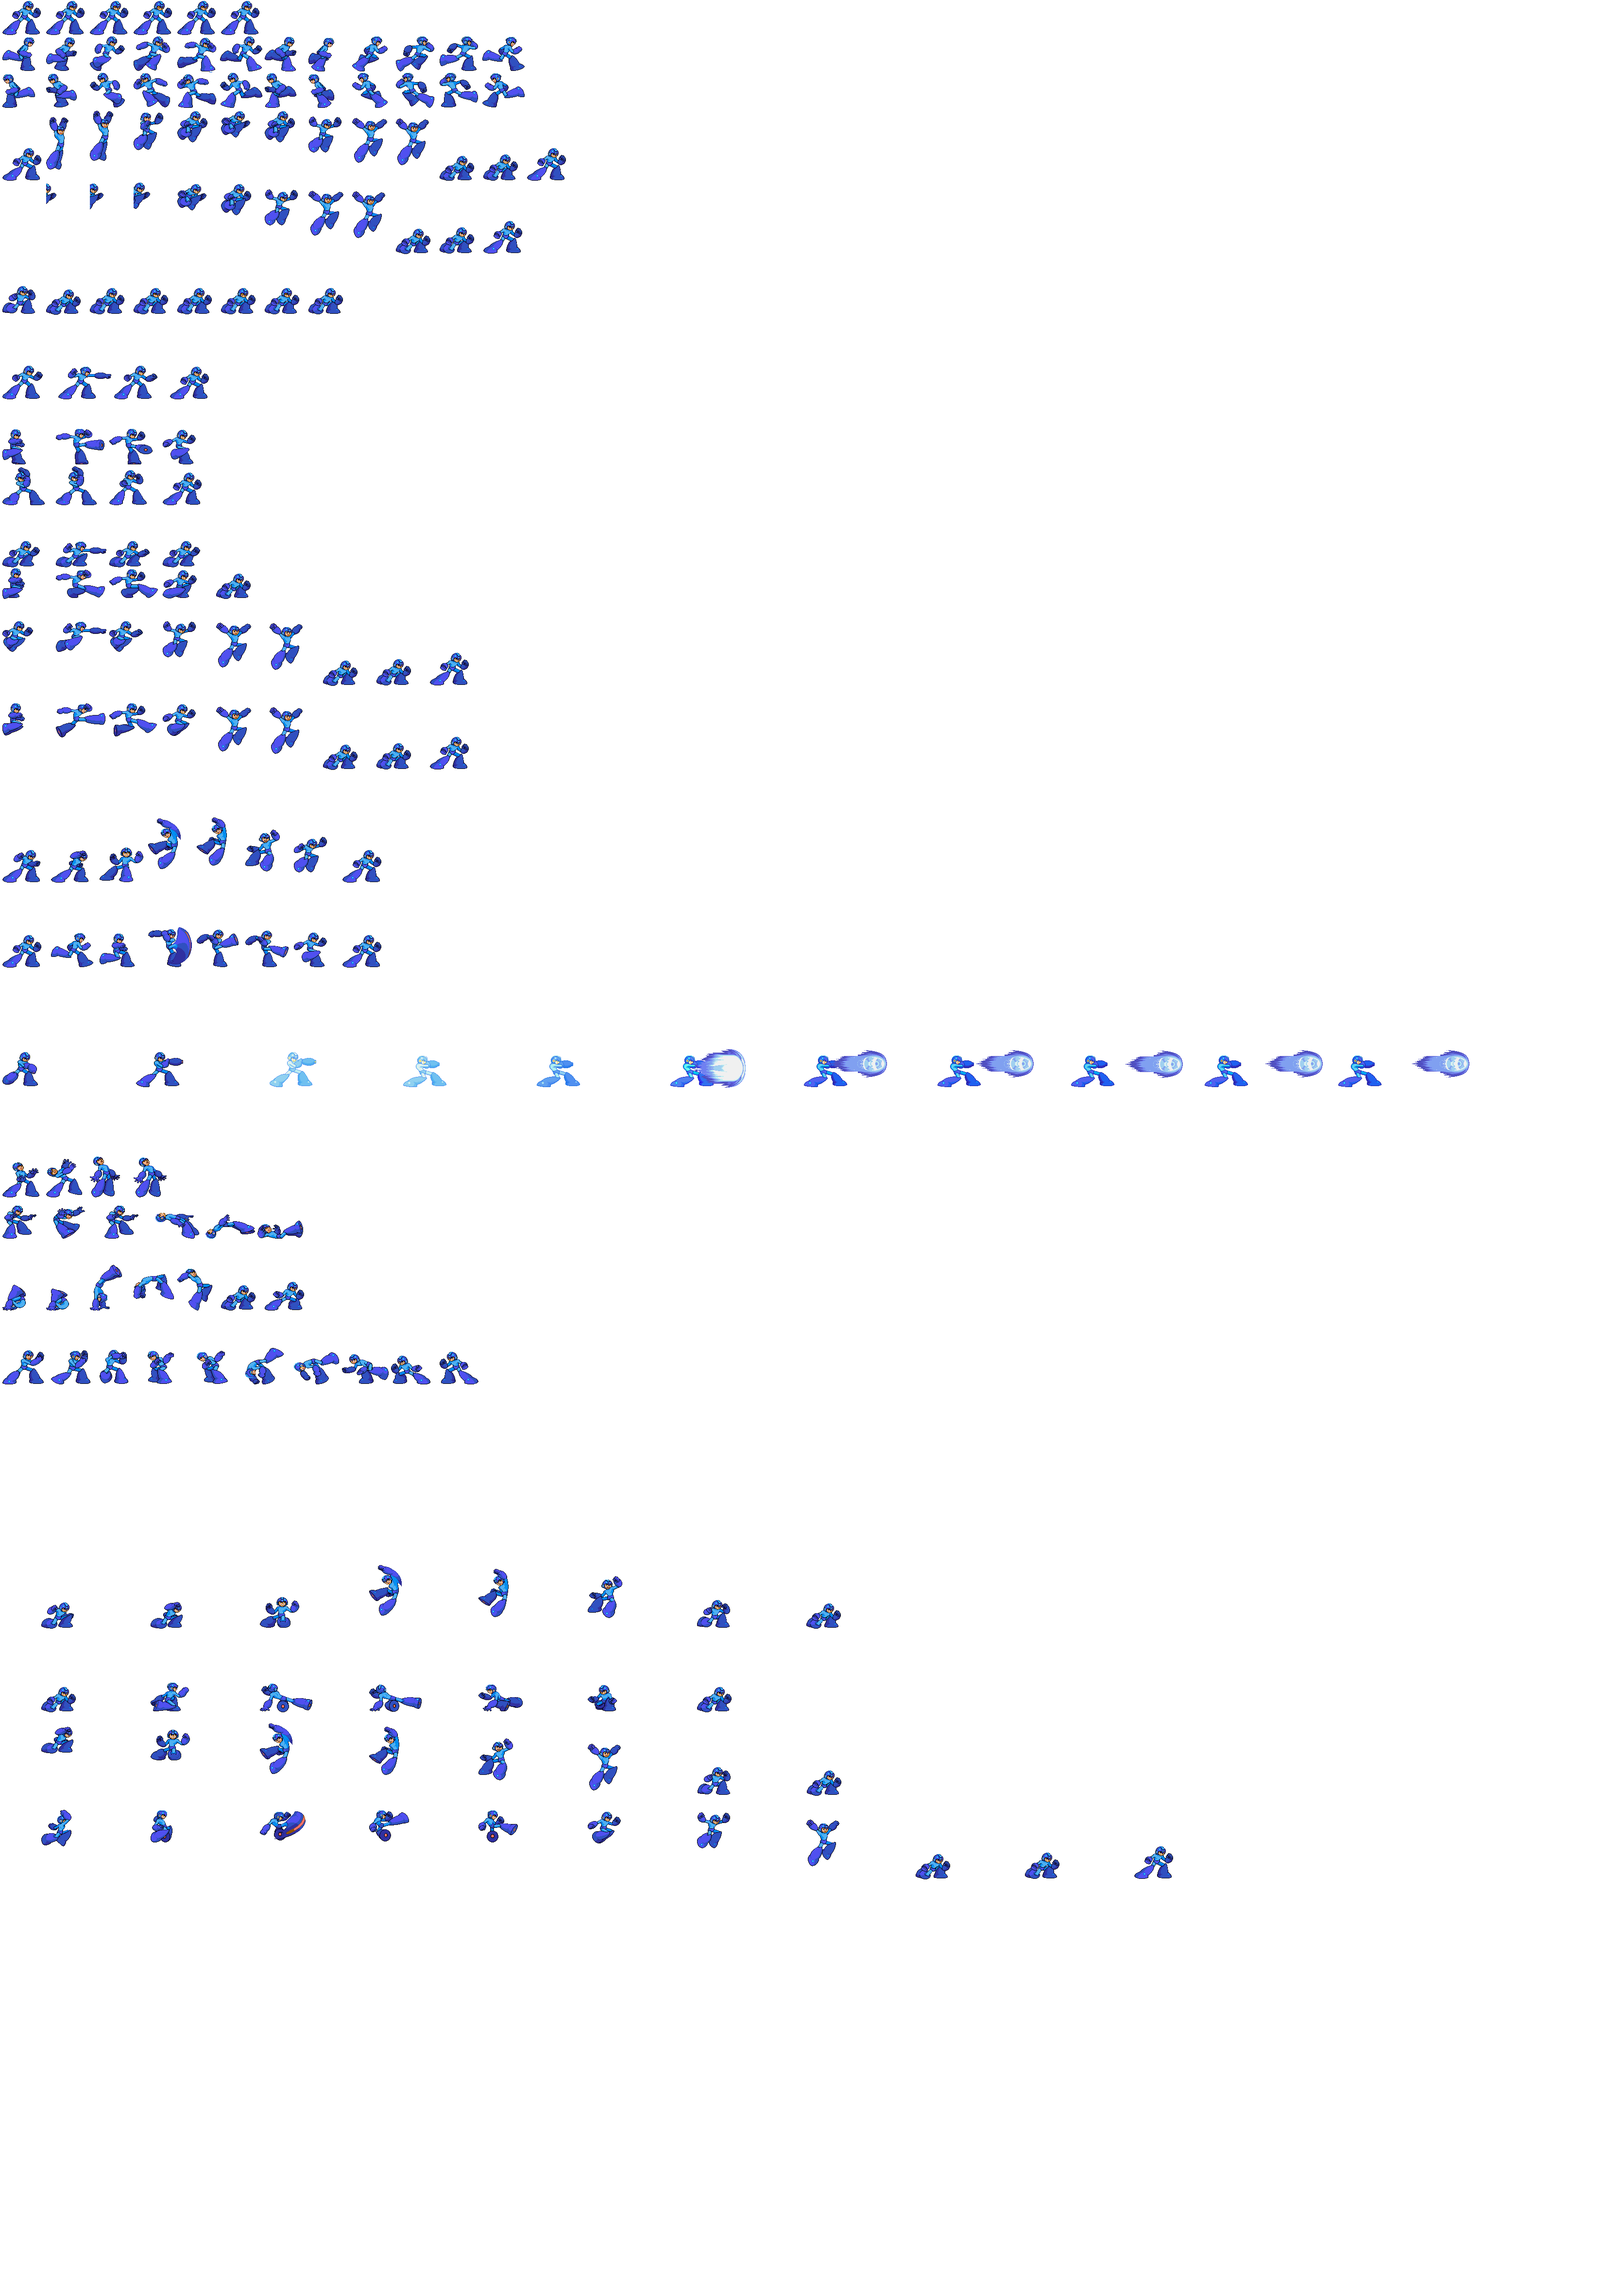
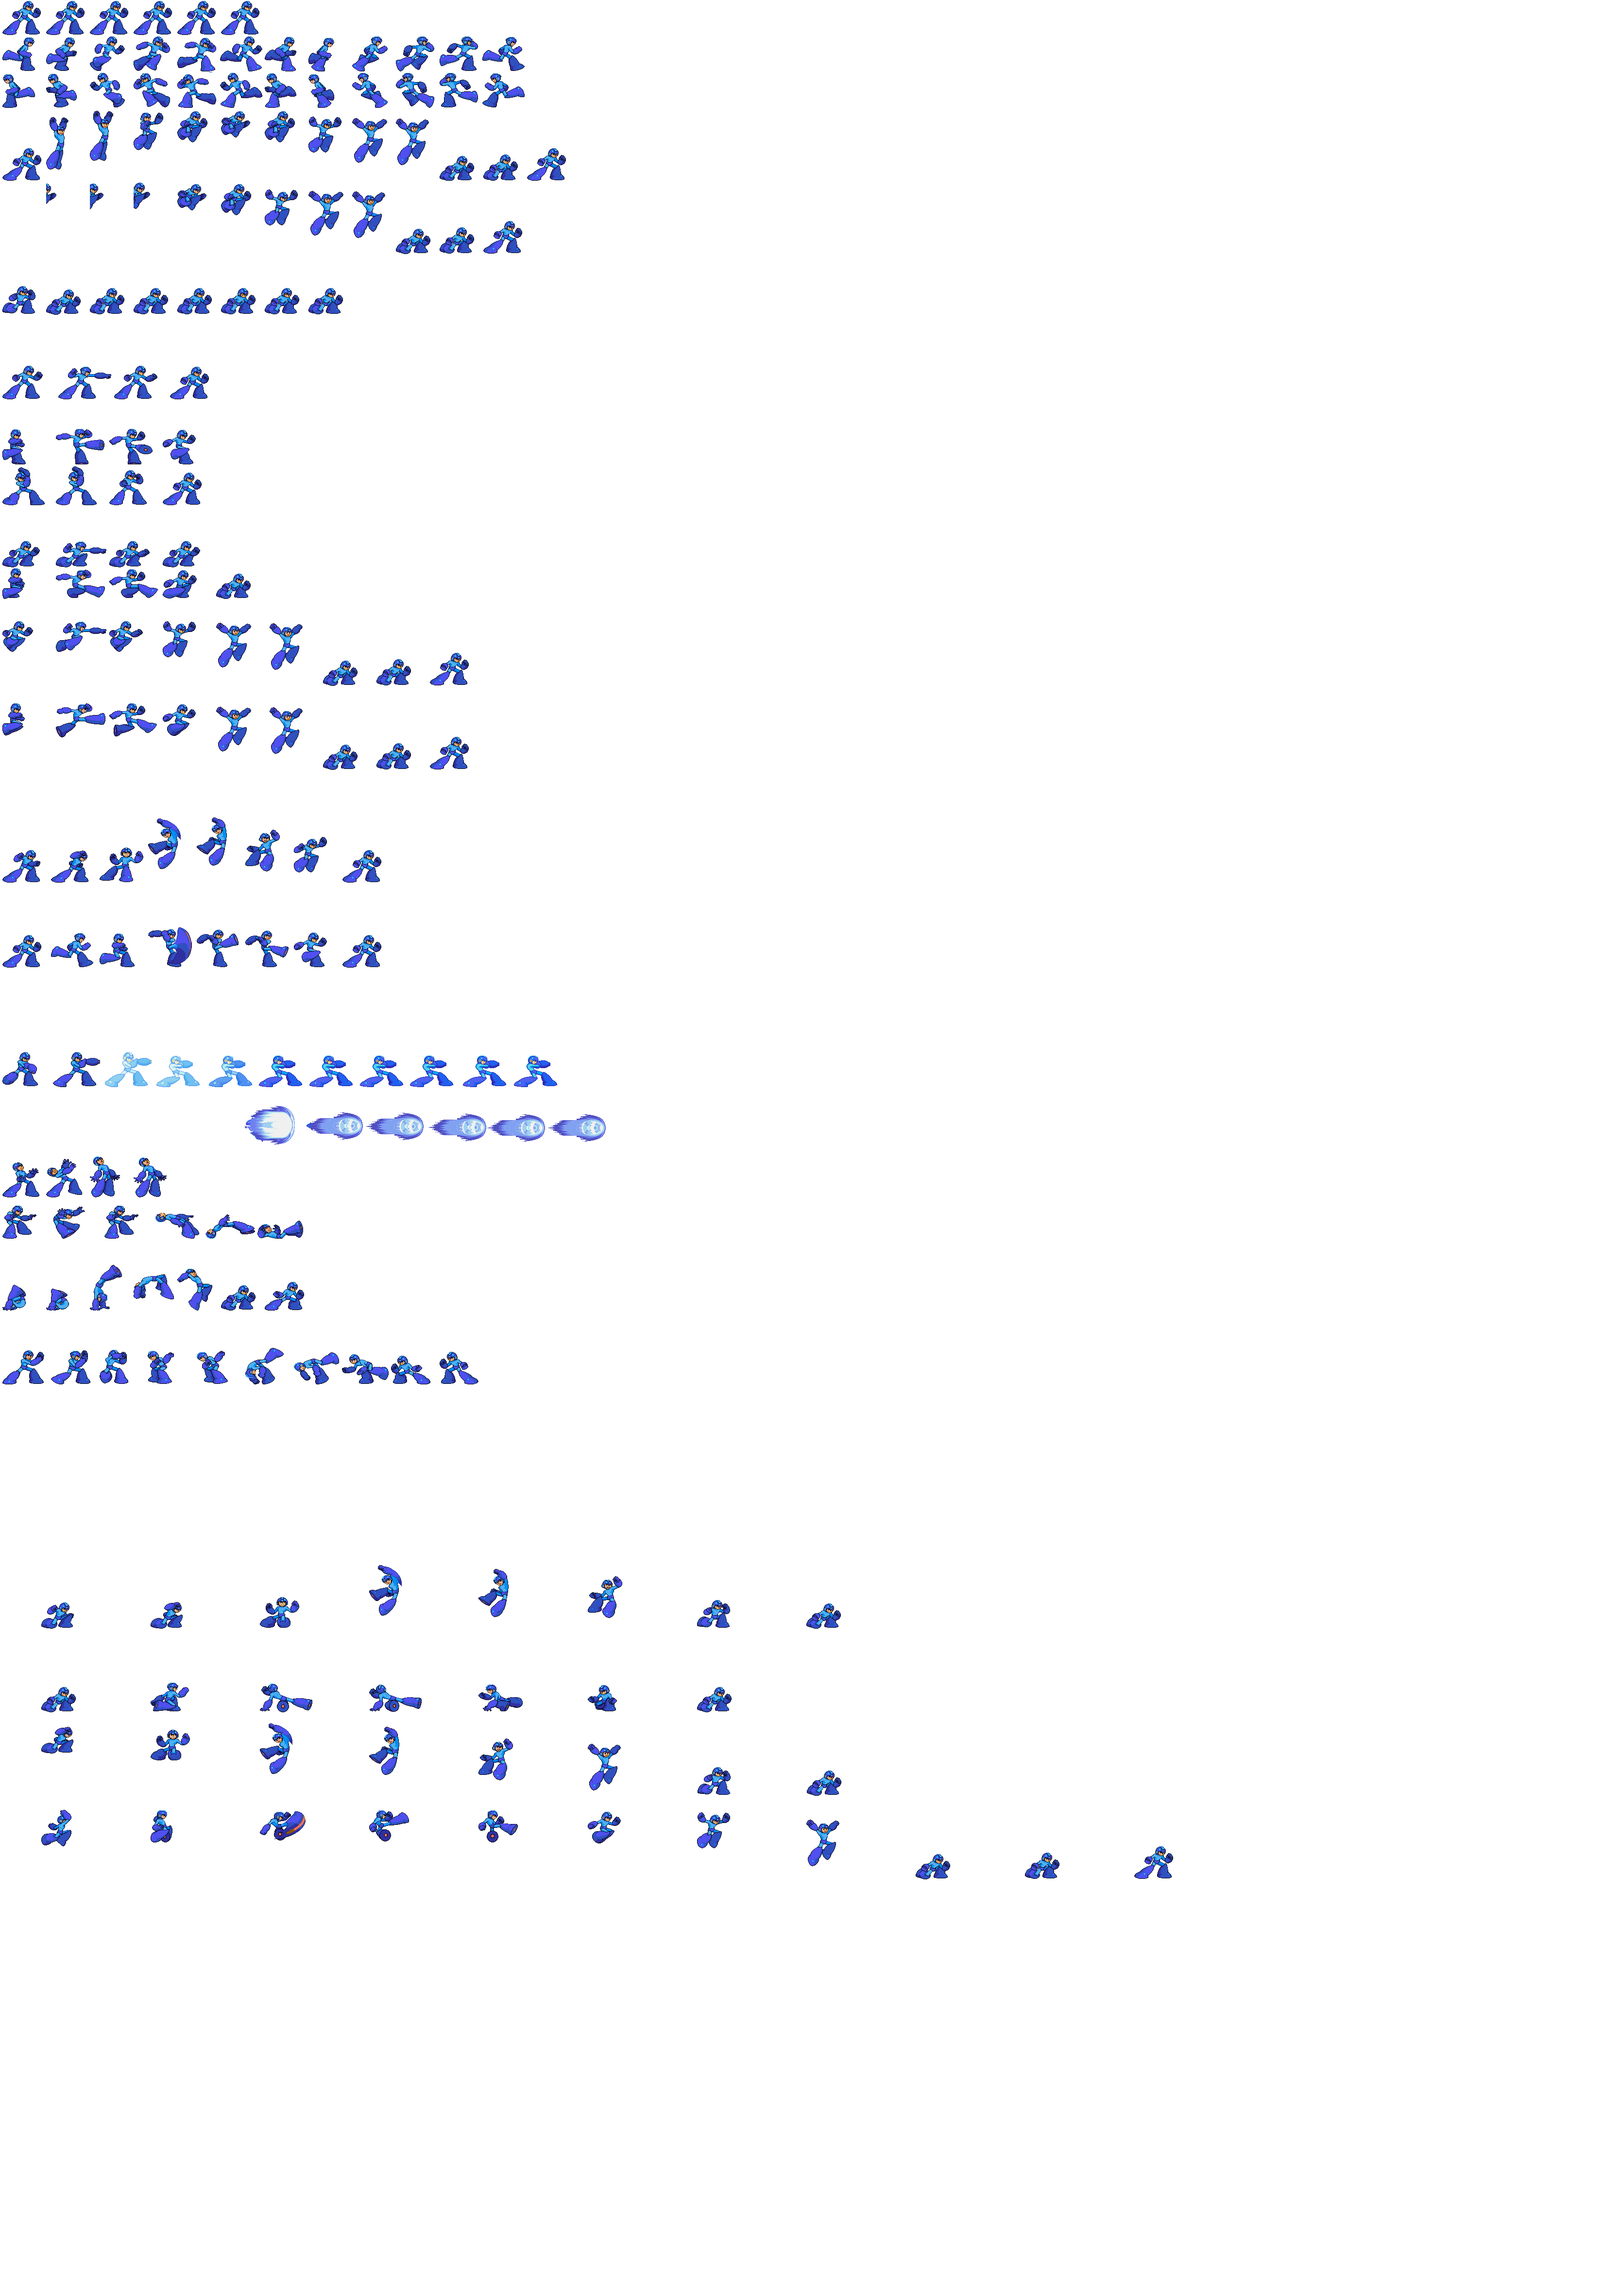
Ahora los disparos son un rectangulo aparte
Solo edite megaman, maniana termino los otros

diff --git a/source/view/SpriteAnimado.cpp b/source/view/SpriteAnimado.cpp
@@ -124,7 +124,7 @@ void SpriteAnimado::cargarAnimaciones(string nombre){
 		golpeA=new Animacion("golpeA",4,0,1105,110,65,8);//golpe agachado//LISTO
 		patadaA=new Animacion("patadaA",5,0,1170,110,65,8);//patada agachado//LISTO
 		defensa=new Animacion("defensa",4,0,960,110,80,8);//LISTO
-		disparo=new Animacion("disparar",11,0,2160,275,80,2);//LISTO
+		disparo=new Animacion("disparar",11,0,2160,105,80,2);//LISTO
 		tiro=new Animacion("tirar",10,0,2775,100,75,6);
 		rgolpe=new Animacion("recibirGolpe",4,0,2380,85,90,4);//LISTO
 		rgolpeF=new Animacion("recibirGolpeF",6,0,2465,105,85,4);//LISTO
@@ -205,9 +205,29 @@ void SpriteAnimado::cargarAnimaciones(string nombre){
 		animacionActual = quieto;
 		return;
 	}
+	if(nombre=="CapitanAmericaArrojable"){
+		arrojable = new Animacion("arrojar",1,1,1,170,30,5);
+		animaciones.push_back(arrojable);
+		return;
+	}
+	else if(nombre=="SpidermanArrojable"){
+			arrojable = new Animacion("arrojar",1,1,1,95,33,5);
+			animaciones.push_back(arrojable);
+			return;
+		}
+	else if(nombre=="VenomArrojable"){
+			arrojable = new Animacion("arrojar",1,1,1,40,20,5);
+			animaciones.push_back(arrojable);
+			return;
+		}
+	else if(nombre=="MegaManArrojable"){
+			arrojable = new Animacion("arrojar",9,250,2271,125,85,5);
+			animaciones.push_back(arrojable);
+			return;
+		}
 
 	//std::string Nombre, int Frames,int x,int y, int ancho, int alto,int Velocidad
-	if(nombre=="CapitanAmericaBoton"){
+	else if(nombre=="CapitanAmericaBoton"){
 		mouseOut = new Animacion("mouseOut",1,0,0,159,129,10);
 		mouseOver = new Animacion("mouseOver",1,160,0,159,129,10);
 		mouseDown = new Animacion("mouseDown",1,319,0,159,129,10);
@@ -265,6 +285,7 @@ bool SpriteAnimado::iniciarAnimacion(string nombre){
 }
 
 void SpriteAnimado::cambiarAnimacion(string nombre){
+	if(nombre=="arrojar") finalizado=false;
 	sonidoEnviado = false;
 	for(Uint8 i=0; i<animaciones.size();i++){
 		if(animaciones[i]->getNombre() == nombre )
@@ -281,7 +302,9 @@ void SpriteAnimado::update(){
 	if (frameIndex < animacionActual->getFrames() - 1 )
 		frameIndex++;
 	else{
-		if(animacionActual->getNombre()=="agacharse" || animacionActual->getNombre()=="defensa")
+		if(animacionActual->getNombre()=="arrojar")
+			finalizado = true;
+		else if(animacionActual->getNombre()=="agacharse" || animacionActual->getNombre()=="defensa")
 			return;
 		frameIndex=0;
 		if(nombreSprite == "CapitanAmerica" && animacionActual->getNombre()=="disparar")

diff --git a/source/model/Personaje.cpp b/source/model/Personaje.cpp
@@ -38,7 +38,9 @@ Personaje::Personaje(string nombre, int posicionXinicial, SDL_RendererFlip flip)
 	this->posx= posicionXinicial;
 	this->posicionXinicial = posicionXinicial;
 	this->flip = flip;
-	anchoDefault=spriteAnimado->getAncho();
+	this->anchoDefault=spriteAnimado->getAncho();
+	this->arrojable = new SpriteAnimado(nombre+"Arrojable");
+	this->setArrojable();
 	controladorLogger->registrarEvento("INFO", "Personaje:: Personaje creado: "+nombre);
 
 }
@@ -46,6 +48,11 @@ Personaje::Personaje(string nombre, int posicionXinicial, SDL_RendererFlip flip)
 void Personaje::actualizar(Personaje *enemigo){
 	if(saltando) this->saltar(enemigo);
 	this->spriteAnimado->update();
+	if(arrojable->finalizado) {
+		distanciaArrojable=0;
+		Arrojando=false;
+	}
+	if(Arrojando) arrojable->update();
 	this->alto =constanteEstiramientoVertical*spriteAnimado->getAlto();
 	this->ancho = constanteEstiramientoHorizontal*spriteAnimado->getAncho();
 	if(!saltando) posy = posicionYdefault-alto;
@@ -150,6 +157,8 @@ void Personaje::agacharse(){
 void Personaje::disparar(){
 	if(saltando|| agachado) return;
 	this->spriteAnimado->iniciarAnimacion("disparar");
+	this->arrojable->cambiarAnimacion("arrojar");
+	Arrojando = true;
 }
 void Personaje::defenderse(){
 	if(saltando) return;
@@ -318,3 +327,41 @@ void Personaje::habilitar(){
 	this->habilitado = true;
 }
 
+bool Personaje::arrojando(){
+	return Arrojando;
+}
+
+void  Personaje::setArrojable(){
+	if(nombre=="CapitanAmerica"){
+		anchoArrojable=170;
+		altoArrojable=30;
+	}
+	else if(nombre=="Spiderman"){
+			anchoArrojable=95;
+			altoArrojable=33;
+		}
+	else if(nombre=="Venom"){
+		anchoArrojable=40;
+		altoArrojable = 20;
+	}
+	else if(nombre=="MegaMan"){
+		anchoArrojable = 	125;
+		altoArrojable = 85;
+	}
+}
+
+SDL_Rect Personaje::getRectDestinoArrojable(){
+	SDL_Rect rectangulo ;
+	if(flip)
+		rectangulo = {posx-distanciaArrojable,posy,anchoArrojable,altoArrojable};
+	else
+		rectangulo = {posx+distanciaArrojable,posy,anchoArrojable,altoArrojable};
+	distanciaArrojable +=velocidadArrojable;
+	return rectangulo;
+
+	}
+
+SDL_Rect Personaje::getRectOrigenArrojable(){
+return arrojable->rectOrigen();
+
+	}

diff --git a/headers/model/Personaje.hpp b/headers/model/Personaje.hpp
@@ -46,6 +46,8 @@ class Personaje{
 		float getPosY();
 		void saltarEnemigoAIzq();
 		SDL_Rect  obtenerRectangulo();
+		SDL_Rect getRectDestinoArrojable();
+		SDL_Rect getRectOrigenArrojable();
 		std::string getNombre();
 		string getSonido();
 		SpriteAnimado *obtenerSprite();
@@ -56,6 +58,8 @@ class Personaje{
 		void habilitar();
 		bool bloqueado();
 		void forzarPosicion(float x, float y);
+		bool arrojando();
+		void setArrojable();
 
 	private:
 		bool habilitado;
@@ -75,6 +79,7 @@ class Personaje{
 		bool moviendoIzq=false;
 		bool moviendoDer=false;
 		SpriteAnimado *spriteAnimado;
+		SpriteAnimado *arrojable;
 		SDL_RendererFlip flip;
 		std::string nombre;
 		int vida;
@@ -83,6 +88,10 @@ class Personaje{
 		int anchoDefault;
 		int constanteEstiramientoHorizontal;
 		int constanteEstiramientoVertical;
+		int velocidadArrojable=10;
+		int anchoArrojable,altoArrojable;
+		int distanciaArrojable = 0;
+		bool Arrojando = false;
 
 
 };

diff --git a/headers/view/SpriteAnimado.hpp b/headers/view/SpriteAnimado.hpp
@@ -29,6 +29,7 @@ class SpriteAnimado{
 		int getAlto();
 		int getAncho();
 		string getSonido();
+		bool finalizado = false;
 
 
 	private:
@@ -36,6 +37,7 @@ class SpriteAnimado{
 		Animacion *animacionActual;
 		Animacion * quieto,*moverDerecha,*moverIzquierda,*salto,*agacharse,*cambioEntrada,*golpeS,*patadaS,*patadaA,*golpeSaltando,*patadaSaltando,*golpeF,*patadaF,*golpeA,*defensa,*disparo,*tiro,*rgolpe,*rgolpeF,*levantarse;
 		Animacion * mouseOut,*mouseOver,*mouseDown,*mouseUp;
+		Animacion *arrojable;
 		vector<Animacion*> animaciones;
 		int frameIndex = 0;
 		int regulador = 0;

diff --git a/source/model/Juego.cpp b/source/model/Juego.cpp
@@ -268,6 +268,8 @@ vector<tuple<string,SDL_Rect, SDL_Rect ,SDL_RendererFlip >>Juego::dibujar(){
 	}
 	Personaje *p1 = get<0>(zindexs_personajes[0])->devolverPersonajeActual();
 	Personaje *p2=get<0>(zindexs_personajes[1])->devolverPersonajeActual();
+	if(p1->arrojando()) dibujables.push_back(make_tuple(p1->getNombre(),p1->getRectOrigenArrojable(),p1->getRectDestinoArrojable(),p1->getFlip()));
+	if(p2->arrojando()) dibujables.push_back(make_tuple(p2->getNombre(),p2->getRectOrigenArrojable(),p2->getRectDestinoArrojable(),p2->getFlip()));
 	p1->actualizar(p2);
 	p2->actualizar(p1);
 
